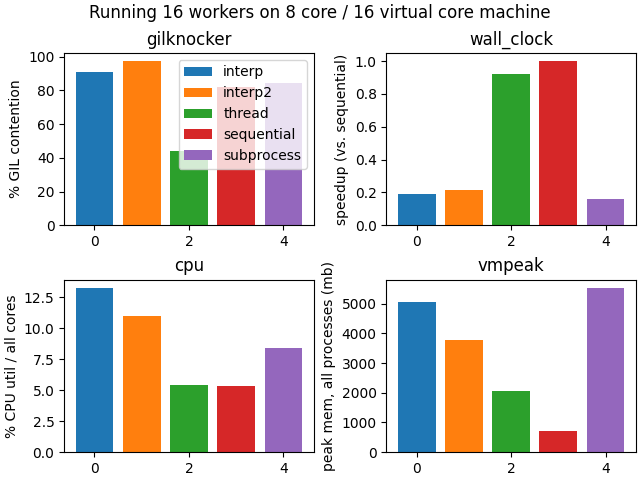
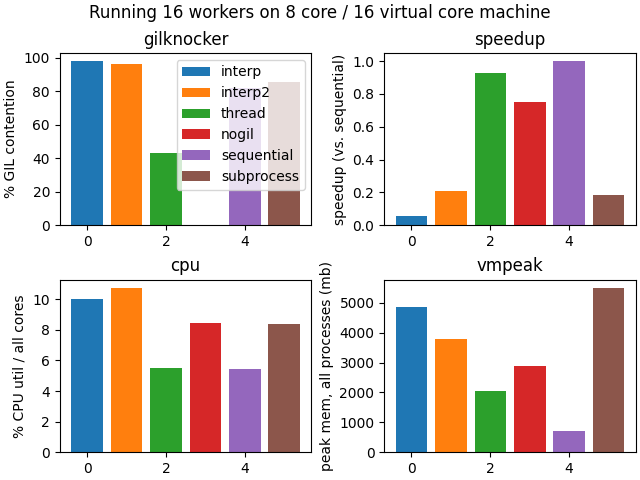
Add nogil to the mix

diff --git a/get_data.py b/get_data.py
@@ -4,18 +4,24 @@ import shutil
 import subprocess
 
 py = "venv/bin/python"
+nogil_py = "venv-nogil/bin/python"
 pip = [py, "-m", "pip"]
 
 shutil.rmtree("venv")
 subprocess.check_call(["../cpython/python", "-m", "venv", "venv"])
+shutil.rmtree("venv-nogil", ignore_errors=True)
+subprocess.check_call(["../cpython-nogil/python", "-m", "venv", "venv-nogil"])
 subprocess.check_call(
-    pip
-    + [
+    [
+        py,
+        "-m",
+        "pip",
         "install",
         "git+https://github.com/mdboom/extrainterpreters@main#egg-info=extrainterpreters",
     ]
 )
-subprocess.check_call(pip + ["install", "gilknocker"])
+for p in [py, nogil_py]:
+    subprocess.check_call([p, "-m", "pip", "install", "gilknocker"])
 
 data = {}
 
@@ -23,18 +29,25 @@ parser = argparse.ArgumentParser(
     description="Benchmark multiprocessing pools in various modes"
 )
 parser.add_argument(
-    "benchmark", type=str, nargs='?', help="The benchmark to run", default="nbody"
+    "benchmark", type=str, nargs="?", help="The benchmark to run", default="nbody"
 )
 args = parser.parse_args()
 benchmark = args.benchmark
 
 
-for mode in ["interp", "interp2", "interp3", "thread", "sequential", "subprocess"]:
+for mode in ["interp", "interp2", "interp3", "thread", "nogil", "sequential", "subprocess"]:
     print(f"{mode=}")
 
     if benchmark in ("data_pass", "balance") and mode == "interp3":
         print(f"Skipping: {benchmark} doesn't work with interp3")
         continue
+
+    if mode == "nogil":
+        python_exec = nogil_py
+        real_mode = "thread"
+    else:
+        python_exec = py
+        real_mode = mode
 
     output = subprocess.run(
         [
@@ -42,10 +55,10 @@ for mode in ["interp", "interp2", "interp3", "thread", "sequential", "subprocess
             "/usr/bin/time",
             "-f",
             "'wall_clock: %e\ncpu: %P\n'",
-            py,
+            python_exec,
             "pool.py",
-            mode,
-            benchmark
+            real_mode,
+            benchmark,
         ],
         stdout=subprocess.PIPE,
         stderr=subprocess.STDOUT,

diff --git a/defs.py b/defs.py
@@ -1,3 +1,5 @@
+import copy
+
 DEFAULT_ITERATIONS = 20000
 DEFAULT_REFERENCE = "sun"
 
@@ -105,16 +107,20 @@ def offset_momentum(ref, bodies=SYSTEM, px=0.0, py=0.0, pz=0.0):
 
 
 def bench_nbody(loops, reference=DEFAULT_REFERENCE, iterations=DEFAULT_ITERATIONS):
+    bodies = copy.deepcopy(BODIES)
+    system = copy.deepcopy(SYSTEM)
+    pairs = copy.deepcopy(PAIRS)
+
     # Set up global state
-    offset_momentum(BODIES[reference])
+    offset_momentum(bodies[reference], system)
 
     range_it = range(loops)
 
     result = []
 
-    for _ in range_it:
-        advance(0.01, iterations)
-        result.append(report_energy())
+    for x in range_it:
+        advance(0.01, iterations, system, pairs)
+        result.append(report_energy(system, pairs))
 
     return result
 

diff --git a/pool.py b/pool.py
@@ -1,3 +1,5 @@
+import sys
+
 try:
     from multiprocessing.pool import (
         SubinterpreterPool,
@@ -9,10 +11,12 @@ except ImportError:
 from multiprocessing.pool import ThreadPool
 from multiprocessing import Pool
 
+gilknocker = None
 try:
-    import gilknocker
+    if 'nogil' not in sys.version:
+        import gilknocker
 except ImportError:
-    gilknocker = None
+    pass
 
 import argparse
 import sys
@@ -83,3 +87,5 @@ if __name__ == "__main__":
     if gilknocker is not None:
         knocker.stop()
         print(f"gilknocker: {knocker.contention_metric}")
+    elif "nogil" in sys.version:
+        print(f"gilknocker: 0")

diff --git a/plot.py b/plot.py
@@ -27,6 +27,8 @@ def barchart(ax, name, dataset):
 def plot(ax, metric, scale, f):
     dataset = rotate_data(data, metric, f)
     barchart(ax, metric, dataset)
+    if metric == "wall_clock":
+        metric = "speedup"
     ax.set_title(metric)
     ax.set_ylabel(scale)
 

diff --git a/README.md b/README.md
@@ -12,6 +12,11 @@ system. **The choice of benchmark here probably has a considerable impact on the
 results. Don't take any of this as definitive. More benchmarks with different
 characteristics will need to be tested.**
 
+![Results](data_pass.png)
+
+Results of running a benchmark to measure message-passing overhead. Sends 0.5 MB
+of data with each task, but the task does virtually nothing.
+
 ## Methods
 
 At the core of multiprocessing is a "work handler loop", which receives tasks (a
@@ -28,8 +33,8 @@ In both cases, subinterpreters are managed using
 
 ### Method one
 
-As with regular `multiprocessing` using subprocesses, each worker in the pool has its own thread in the main interpreter.  
-Inside each of those threads, a subinterpreter runs multiprocessing's existing "work handler loop", unmodified.  
+As with regular `multiprocessing` using subprocesses, each worker in the pool has its own thread in the main interpreter.
+Inside each of those threads, a subinterpreter runs multiprocessing's existing "work handler loop", unmodified.
 
 Since a `queue.SimpleQueue` can not be used to send objects between
 subinterpreters, work is sent to this loop inside the subinterpreter using a
@@ -94,6 +99,12 @@ This method is identical to method two, except the return value from the
 subinterpreter is sent over a pipe back to the worker thread in the main
 interpreter. This does not require the extension to PEP554 to run code in eval
 mode.
+
+### A note about nogil
+
+The `nogil` mode runs on the `colesbury/nogil-3.12` fork of CPython (hash 4526c07).
+That commit segfaults when running the nbody benchmark, so I disabled specialization to get it to run.
+To account for this variable, I also disabled specialization on upstream CPython.
 
 ## Running this
 
